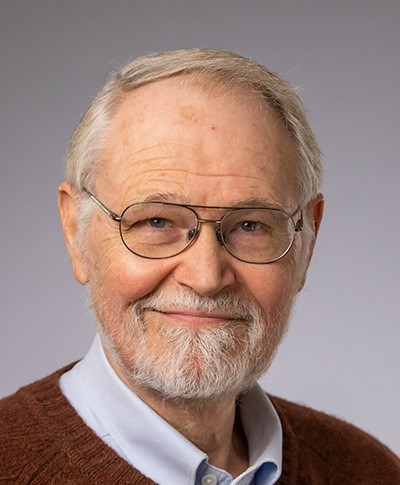
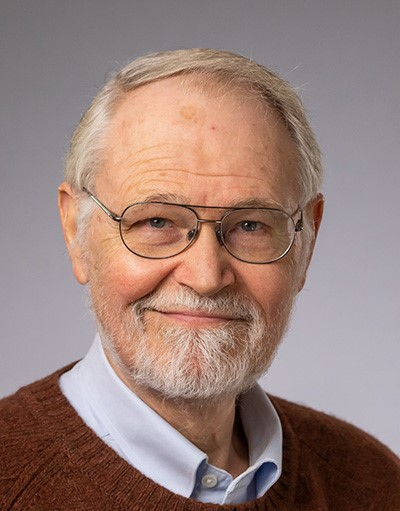
update

diff --git a/public/assets/style.css b/public/assets/style.css
@@ -219,14 +219,20 @@ h1 ,nav-link ,p , .btn, footer , .placeholder,h2 ,h3, .child ,h5 {
 }
 
 
+.plesson{
+    font-family: 'Poppins', sans-serif;
+            font-optical-sizing: auto;
+}
+.lesson{
+    background-color: #0A192F;
+}
 body,
-
 .modal-header,
 .modal-body,
 .modal-body input,
 .navbar,
 .list-group.btn,
-.lesson,
+
 .dropdown,
 .dropdown-menu,
 .dropdown {

diff --git a/resources/views/lessons.blade.php b/resources/views/lessons.blade.php
@@ -39,10 +39,10 @@
                         <div class="tab-pane fade pt-4 {{ $loop->first ? 'show active' : '' }}"
                             id="lesson-{{ $lesson->id }}">
                             <h5 class="fw-bold text-info" >{{ $lesson->title }}</h5>
-                            <p>{!! nl2br(e($lesson->content)) !!}</p>
+                            <p class="plesson">{!! nl2br(e($lesson->content)) !!}</p>
 
                             @if ($lesson->example)
-                                <h6 class=" mt-4 fw-bold">Example:</h6>
+                                <h6 class="plesson mt-4 fw-bold">Example:</h6>
                                 <div
                                     class="text-start text-light p-3 rounded "style="box-shadow: 0 0 10px 2px rgba(255, 255, 255, 0.3);">
                                     <code>{{ $lesson->example }}</code>
@@ -50,9 +50,9 @@
                             @endif
 
                             @if ($lesson->example_description)
-                                <p class="text-light mt-4 fw-bold">Example Description:<p>
+                                <p class="text-light mt-4 fw-bold ">Example Description:<p>
                                 <div
-                                    class="text-light text-start  p-3 rounded  "style="box-shadow: 0 0 10px 2px rgba(255, 255, 255, 0.3);">
+                                    class="text-light text-start  p-3 rounded plesson  "style="box-shadow: 0 0 10px 2px rgba(255, 255, 255, 0.3);">
                                     {{ $lesson->example_description }}
                                 </div>
                             @endif

diff --git a/resources/views/dashboard.blade.php b/resources/views/dashboard.blade.php
@@ -103,7 +103,7 @@
      </div>
 
      <!-- Progress and Weekly Review -->
-     <div class="container pb-5" data-aos="fade-left">
+     <div class="container pb-5" >
          <div class="d-flex gap-3 mt-5">
              <div class="dashbord rounded-4 pt-4 border w-50">
                  <h4 class="fw-bold text-start ps-4 text-info">Monitoring your progress</h4>
